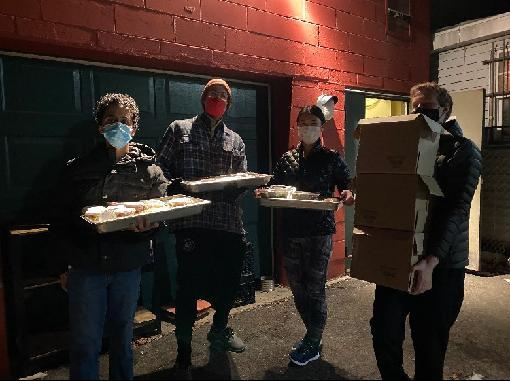
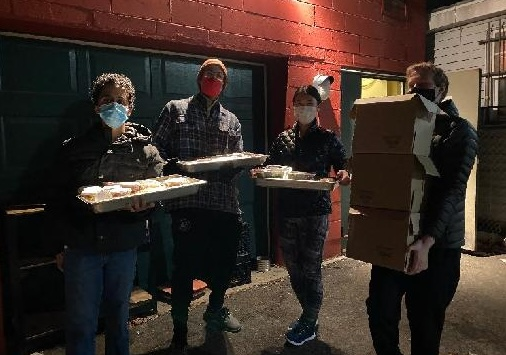
Complete adding stats

diff --git a/index.html b/index.html
@@ -81,26 +81,31 @@
         the events that we are hosting along with sign up
         sheets for picking up food. Through out the semester we try to host some workshops and events to learn more
         about food waste and how we can make a difference in our personal lives and through volunteering.</p>
+    <h2>Our Impact</h2>
+    <p class="center">Updated Summer 2024</p>
     <div class="columns stats">
         <div class="column">
-            <h2 id="pans">500</h2>
+            <h2 id="pans">2,351</h2>
             <p>Pans Recovered</p>
+            <p>Counting Since 2021</p>
         </div>
         <div class="column">
-            <h2 id="boxes">500</h2>
+            <h2 id="boxes">156</h2>
             <p>Panera Boxes Recovered</p>
+            <p>Counting Since 2023</p>
         </div>
         <div class="column">
             <h2 id="pounds">20,571</h2>
             <p>Total Pounds Recovered</p>
+            <p>Counting Since 2018</p>
         </div>
     </div>
     <div class="columns images">
         <div class="column">
-            <img src="/static/img/boxes.jpg" alt="Donation picture" aria-label="Donation picture" class="img">
+            <img src="/static/img/food.jpg" alt="Donation picture" aria-label="Donation picture" class="img">
         </div>
         <div class="column">
-            <img src="/static/img/food.jpg" alt="Donation picture" aria-label="Donation picture" class="img">
+            <img src="/static/img/boxes.jpg" alt="Donation picture" aria-label="Donation picture" class="img">
         </div>
         <div class="column">
             <img src="/static/img/big_donation.jpg" alt="Donation picture" aria-label="Donation picture" class="img">

diff --git a/static/css/main.css b/static/css/main.css
@@ -213,3 +213,8 @@ a:hover,
 a:visited:hover {
   text-decoration: underline;
 }
+
+.center {
+  text-align: center;
+  margin: auto;
+}
